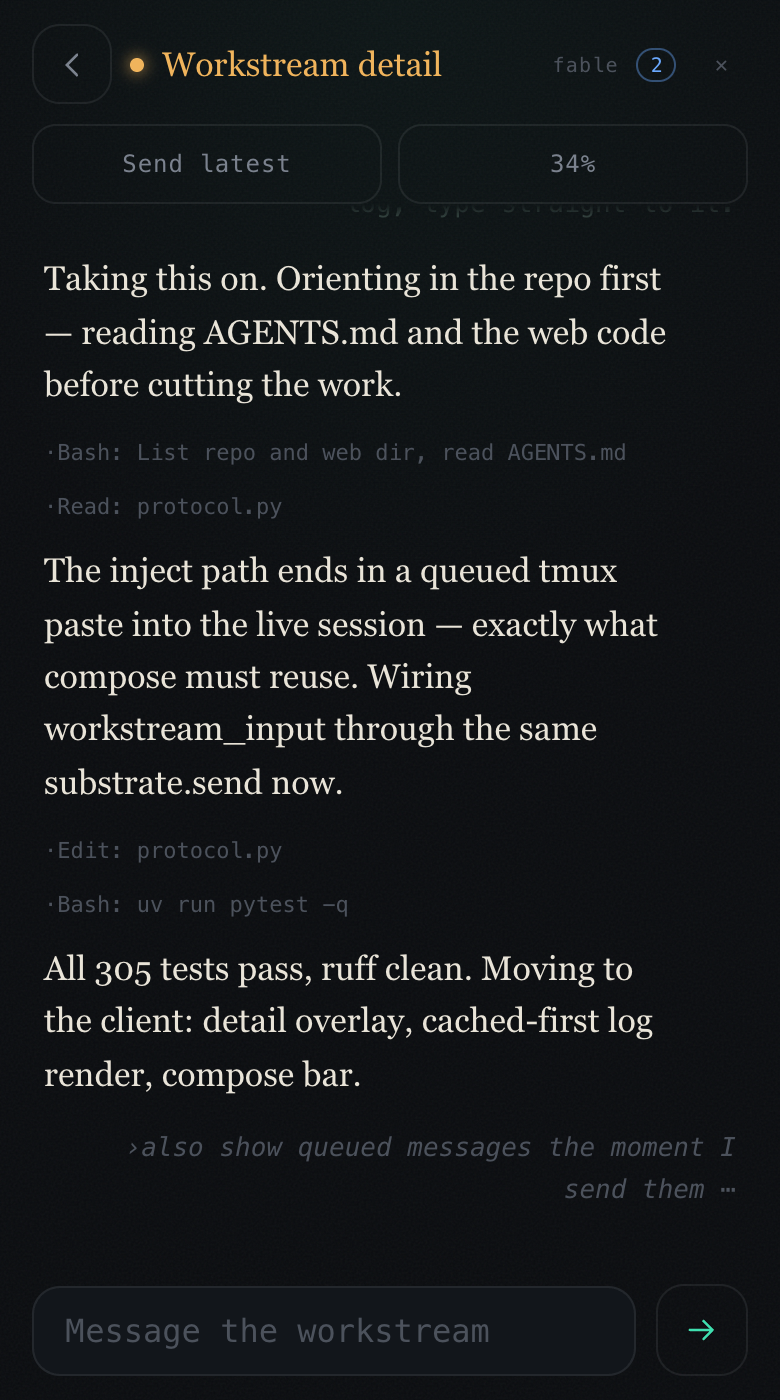
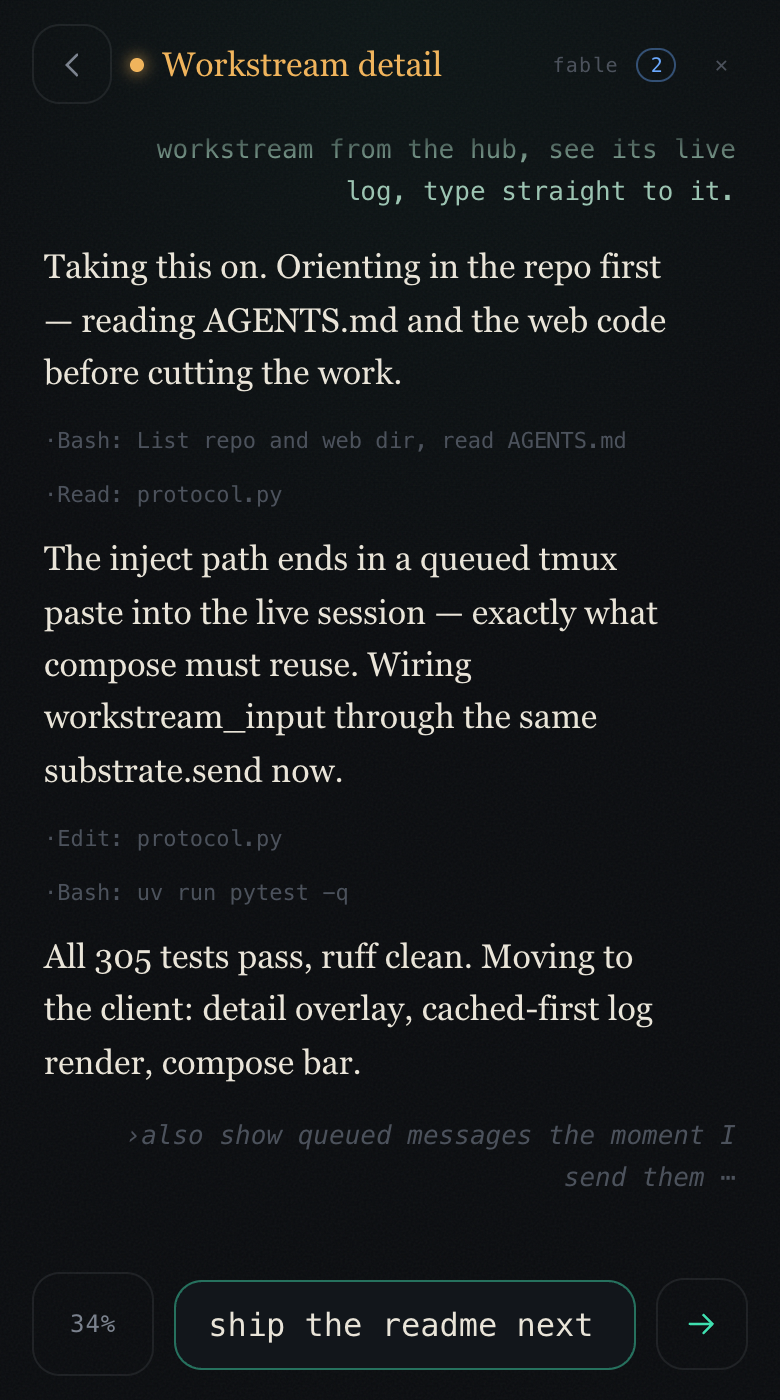
Detail view slims to header + log + composer
Send latest and Check in stay hub-card verbs; Compact (still the
context meter) moves beside a keyboard-pill composer that mirrors the
main page's, buying the transcript the whole screen. Fresh README shot.

Claude-Session: https://claude.ai/code/session_01CmYWj9ojhGC4dvfCtWDn6V

diff --git a/remote_workstreams/web/styles.css b/remote_workstreams/web/styles.css
@@ -632,7 +632,7 @@ button {
 #btn-hush[aria-pressed="true"] .hush-slash { display: block; }
 
 /* The keyboard pill stands in for the input at rest; tapping swaps them. */
-#btn-keyboard {
+#btn-keyboard, #ws-keyboard {
   flex: 1;
   height: 52px;
   display: grid;
@@ -641,11 +641,11 @@ button {
   border-radius: 14px;
   color: var(--faint);
 }
-#btn-keyboard:active { background: var(--elev); color: var(--text); }
-#btn-keyboard svg { width: 22px; height: 22px; }
-#btn-keyboard[hidden] { display: none; }
+#btn-keyboard:active, #ws-keyboard:active { background: var(--elev); color: var(--text); }
+#btn-keyboard svg, #ws-keyboard svg { width: 22px; height: 22px; }
+#btn-keyboard[hidden], #ws-keyboard[hidden] { display: none; }
 
-#composer-input[hidden] { display: none; }
+#composer-input[hidden], #ws-input[hidden] { display: none; }
 
 #composer-input, #ws-input {
   flex: 1;
@@ -664,7 +664,6 @@ button {
 #composer-input:focus, #ws-input:focus {
   border-color: color-mix(in srgb, var(--teal) 45%, transparent);
 }
-#ws-input::placeholder { color: var(--faint); }
 
 #composer-send, #ws-composer-send {
   width: 46px;
@@ -677,7 +676,8 @@ button {
   place-items: center;
 }
 #composer-send:active, #ws-composer-send:active { background: var(--elev); }
-#composer-send[hidden] { display: none; } /* [hidden] loses to display:grid without this */
+/* [hidden] loses to display:grid without this */
+#composer-send[hidden], #ws-composer-send[hidden] { display: none; }
 
 /* ---------- workstream detail: tap a card for the live log + compose ---------- */
 
@@ -735,13 +735,22 @@ button {
 #btn-ws-back:active { color: var(--text); background: var(--elev); }
 #btn-ws-back svg { width: 19px; height: 19px; }
 
-#ws-detail-actions {
-  grid-template-columns: 1fr 1fr; /* Send latest + Compact; End lives in the header */
-  margin-top: 0;
-  padding: 2px 16px 0;
-}
+#ws-log { flex: 1; } /* the log takes everything between the header and the composer */
 
-#ws-log { flex: 1; } /* the log takes everything between the actions and the composer */
+/* Compact sits where the mics do on the main composer; idle it reads the
+   context %, armed it turns amber via .ws-compact.armed. */
+#ws-detail-compact {
+  height: 52px;
+  flex: none;
+  padding: 0 18px;
+  border: 1px solid var(--line);
+  border-radius: 14px;
+  font-size: 12px;
+  letter-spacing: 0.04em;
+  color: var(--dim);
+  white-space: nowrap;
+}
+#ws-detail-compact:active { background: var(--elev); color: var(--text); }
 
 #ws-composer {
   display: flex;

diff --git a/remote_workstreams/web/index.html b/remote_workstreams/web/index.html
@@ -136,21 +136,25 @@
       <span id="ws-detail-agents" class="ws-agents" hidden></span>
       <button id="ws-detail-end" class="ws-end" type="button" aria-label="End workstream">✕</button>
     </header>
-    <!-- No Check in here: the live log below is the check-in, and its narration
-         lands in the hub convo this view covers. -->
-    <div id="ws-detail-actions" class="ws-actions">
-      <button id="ws-detail-send" class="ws-send" type="button">Send latest</button>
-      <button id="ws-detail-compact" class="ws-compact" type="button">Compact</button>
-    </div>
     <section id="ws-log" aria-live="polite">
       <p id="ws-log-empty">The workstream's transcript lands here.</p>
     </section>
+    <!-- Mirrors the main composer: Compact (doubling as the context meter)
+         where the mics sit, then the keyboard pill that unfolds into the
+         input. Send latest and Check in stay hub verbs — the log below IS
+         the check-in. -->
     <div id="ws-composer">
-      <input id="ws-input" type="text"
-             autocomplete="off" autocapitalize="sentences" enterkeyhint="send"
-             placeholder="Message the workstream">
-      <button id="ws-composer-send" type="button" aria-label="Send to workstream">
+      <button id="ws-detail-compact" class="ws-compact" type="button">Compact</button>
+      <input id="ws-input" type="text" hidden
+             autocomplete="off" autocapitalize="sentences" enterkeyhint="send">
+      <button id="ws-composer-send" type="button" aria-label="Send to workstream" hidden>
         <svg viewBox="0 0 24 24" width="18" height="18" aria-hidden="true"><path d="M4 12h14M13 6l6 6-6 6" fill="none" stroke="currentColor" stroke-width="1.8" stroke-linecap="round" stroke-linejoin="round"/></svg>
+      </button>
+      <button id="ws-keyboard" type="button" aria-label="Type to the workstream">
+        <svg viewBox="0 0 24 24" aria-hidden="true">
+          <rect x="3" y="6.5" width="18" height="11.5" rx="2" fill="none" stroke="currentColor" stroke-width="1.5"/>
+          <path d="M6.4 10h.01M9.8 10h.01M13.2 10h.01M16.6 10h.01M6.4 12.8h.01M9.8 12.8h.01M13.2 12.8h.01M16.6 12.8h.01M8.5 15.4h7" fill="none" stroke="currentColor" stroke-width="1.6" stroke-linecap="round"/>
+        </svg>
       </button>
     </div>
   </section>

diff --git a/remote_workstreams/web/ui.js b/remote_workstreams/web/ui.js
@@ -31,12 +31,12 @@ const els = {
   wsDetailModel: $("ws-detail-model"),
   wsDetailAgents: $("ws-detail-agents"),
   wsDetailEnd: $("ws-detail-end"),
-  wsDetailSend: $("ws-detail-send"),
   wsDetailCompact: $("ws-detail-compact"),
   wsLog: $("ws-log"),
   wsLogEmpty: $("ws-log-empty"),
   wsInput: $("ws-input"),
   wsComposerSend: $("ws-composer-send"),
+  wsKeyboard: $("ws-keyboard"),
   screenLogin: $("screen-login"),
   screenPairing: $("screen-pairing"),
   loginUnlock: $("login-unlock"),
@@ -96,12 +96,13 @@ export function init(h) {
   els.workstreams.addEventListener("scroll", updateWsDots, { passive: true });
   // Detail view: static controls bound once; detailName picks the target.
   els.wsBack.addEventListener("click", closeDetail);
+  els.wsKeyboard.addEventListener("click", () => setWsComposerOpen(true));
+  els.wsInput.addEventListener("blur", () => {
+    if (!els.wsInput.value.trim()) setWsComposerOpen(false);
+  });
   els.wsComposerSend.addEventListener("click", sendWsComposer);
   els.wsInput.addEventListener("keydown", (e) => {
     if (e.key === "Enter") sendWsComposer();
-  });
-  confirmTap(els.wsDetailSend, () => {
-    if (handlers.onSendToWorkstream(detailName)) toast("Routing the latest…");
   });
   confirmTap(els.wsDetailCompact, () => {
     if (handlers.onCompactWorkstream(detailName)) toast("Compacting…");
@@ -421,7 +422,8 @@ export function closeDetail() {
   if (detailName === null) return;
   detailName = null;
   els.wsDetail.hidden = true;
-  els.wsInput.blur();
+  els.wsInput.value = ""; // a draft never carries into another workstream
+  setWsComposerOpen(false);
   handlers.onCloseWorkstream();
 }
 
@@ -431,6 +433,14 @@ export function workstreamLog(name, entries, reset) {
   if (reset) logReset();
   logAppend(entries);
   if (reset) els.wsLog.scrollTop = els.wsLog.scrollHeight;
+}
+
+// The main composer's keyboard-pill pattern: the input + send swap in on demand.
+function setWsComposerOpen(open) {
+  els.wsInput.hidden = !open;
+  els.wsComposerSend.hidden = !open;
+  els.wsKeyboard.hidden = open;
+  if (open) els.wsInput.focus();
 }
 
 function sendWsComposer() {

diff --git a/README.md b/README.md
@@ -46,9 +46,11 @@ reconnect and resume mid-conversation.
   answer out loud.
 - **Tap a card** for the workstream's detail view: the live transcript as a log
   (rendered instantly from cache, streamed from the session's own record) over a
-  compose bar that queues typed messages straight into the session — no injector,
+  composer that queues typed messages straight into the session — no injector,
   nothing forked. A message typed while the session is mid-turn shows immediately
-  as a faint queued line, then as a full line when the session takes it.
+  as a faint queued line, then as a full line when the session takes it. The
+  card's Compact/context meter rides beside the keyboard pill; everything else
+  stays on the card.
 - **Approvals.** Destructive shell commands inside Claude workstreams relay to the
   phone as approve/deny cards; everything else runs without interruption.
 - **The picker** (hamburger) sets the conversation's and future workstreams' engine

diff --git a/AGENTS.md b/AGENTS.md
@@ -9,7 +9,7 @@ Voice and phone front-end over **real, interactive agent sessions** (Claude Code
 - The gated real-session test (`tests/test_live_convo.py`, skipped unless `REMOTE_WORKSTREAMS_LIVE=1`) was run once on 2026-07-03 and **passed** (haiku in tmux session `voice-qa`).
 - **Codex engine added 2026-07-08**: full plumbing (picker, spawn, cards, parsing); 5.6 model IDs are `gpt-5.6-luna`, `gpt-5.6-terra`, and `gpt-5.6-sol` — see the "Codex engine" section for what a first live run must prove.
 - **2026-07-09**: Hush toggle (persistent speaker mute: replies land in chat, nothing is synthesized while it's on), composer collapsed into a keyboard pill, picker gated to wired engines (`engines` setting), planner/injector models store-backed (Codex installs run them on `gpt-5.6-terra`), deploy skill renamed `deploy-rw`.
-- **2026-07-10**: Workstream detail view — tap a card for a full-screen live log plus a compose bar that queues typed messages straight into the session (built because typing to a workstream through the Claude iOS app's injection forks GPT/Codex workflows; the tmux paste path can't). Same day: "plans" picker row in the hamburger — one opus/luna pick for the planner and injector, effort riding on it (opus high, luna xhigh); deploy-rw now seeds luna (not terra) on Codex installs so the row shows its selection. Compose path device-verified same day: a phone message landed queued in a live workstream. Follow-up from that testing: queue-operation enqueue lines now parse as `QueuedText` → chat role "queued" (a message typed mid-turn is visible at send time, faint; it re-renders as the user line on consumption — duplicate by design), and the detail view dropped its Check in button (the live log IS the check-in, and the narration lands in the hub convo the view covers).
+- **2026-07-10**: Workstream detail view — tap a card for a full-screen live log plus a compose bar that queues typed messages straight into the session (built because typing to a workstream through the Claude iOS app's injection forks GPT/Codex workflows; the tmux paste path can't). Same day: "plans" picker row in the hamburger — one opus/luna pick for the planner and injector, effort riding on it (opus high, luna xhigh); deploy-rw now seeds luna (not terra) on Codex installs so the row shows its selection. Compose path device-verified same day: a phone message landed queued in a live workstream. Follow-up from that testing: queue-operation enqueue lines now parse as `QueuedText` → chat role "queued" (a message typed mid-turn is visible at send time, faint; it re-renders as the user line on consumption — duplicate by design), and the detail view slimmed to header + log + composer: Send latest and Check in stay hub-card verbs (the live log IS the check-in), while Compact rides beside a keyboard-pill composer that mirrors the main page's.
 - Home: `github.com/ryan-scheinberg/remote-workstreams`, GPLv3.
 
 ## Commands
@@ -80,7 +80,7 @@ tests/                           pytest; mirror module names; server_fakes.py = 
 - `new_workstream` (one message; phone button arms→confirms): marker ← convo transcript line count; spawn planner (`/remote-workstreams:role-stint-plan convo=… since_line=… output=…` on Claude, `$role-stint-plan …` on codex — `_passthrough_spec` picks by `planner_model`); poll for its output file (2s interval, 300s budget); kill the planner; launch IMMEDIATELY — **the plan is trusted, never shown for review**. Plan's first line is `Stint: <title>` (hard contract with role-stint-plan; the title is all the user ever sees, and the service trims it to 20 chars at a word boundary — ui.js trims too, for rows stored before the limit) → window `ws-<slug>`, spawned with `/role-root` + the workstream settings file; full plan pasted only after `_await_ready` sees the role greeting in the transcript.
 - `send_to_workstream`: injector distills convo-since-marker into a directive file, pasted into the workstream; marker advances.
 - `workstream_input`: a message typed in the phone's detail view, pasted straight into the session — the same queued paste as directives, no injector, no marker change. Mid-turn input queues in the session (Milestone-0), so it never forks the workflow.
-- Detail view: tapping a card opens a full-screen log + compose over the hub (Send latest, Compact, and End — no Check in; the log itself is the check-in). `watch_workstream <name|null>` starts/stops a runtime-owned tail task (0.5s poll, engine-aware parser) pushing `workstream_log`: a ≤200-entry replay (`reset=true`), then increments. One watch at a time; it dies with the socket, and the client re-watches on reconnect. The phone caches logs in memory (300 lines/workstream) so reopening renders before the replay lands.
+- Detail view: tapping a card opens a full-screen log + compose over the hub. Controls: End in the header, Compact (doubling as the context meter) beside the composer's keyboard pill — Send latest and Check in stay hub-card verbs; the log itself is the check-in. `watch_workstream <name|null>` starts/stops a runtime-owned tail task (0.5s poll, engine-aware parser) pushing `workstream_log`: a ≤200-entry replay (`reset=true`), then increments. One watch at a time; it dies with the socket, and the client re-watches on reconnect. The phone caches logs in memory (300 lines/workstream) so reopening renders before the replay lands.
 - `check_in`: a directive through `pipeline.text()` so the convo session reads the workstream transcript tail and answers out loud.
 - `compact_workstream`: types `/compact` into the workstream. `end_workstream`: kills the window and drops the row/card; the CC transcript survives.
 - `clear_convo`: `bootstrap.fresh_convo` kills the convo window and spawns a brand-new session (`/remote-workstreams:role-convo`, new id, marker → 0), `bridge.reset()` swaps the transcript tail, the manager's `convo_transcript` re-points, and `ConvoCleared` wipes the phone's chat.